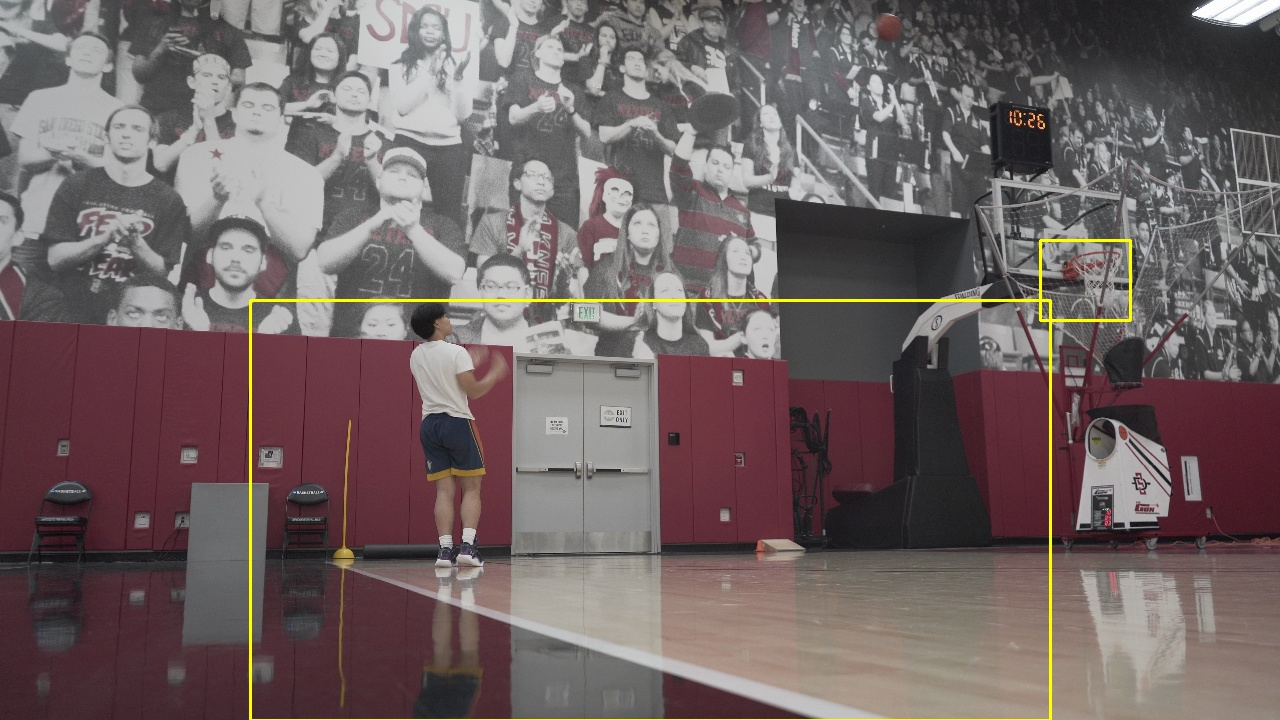
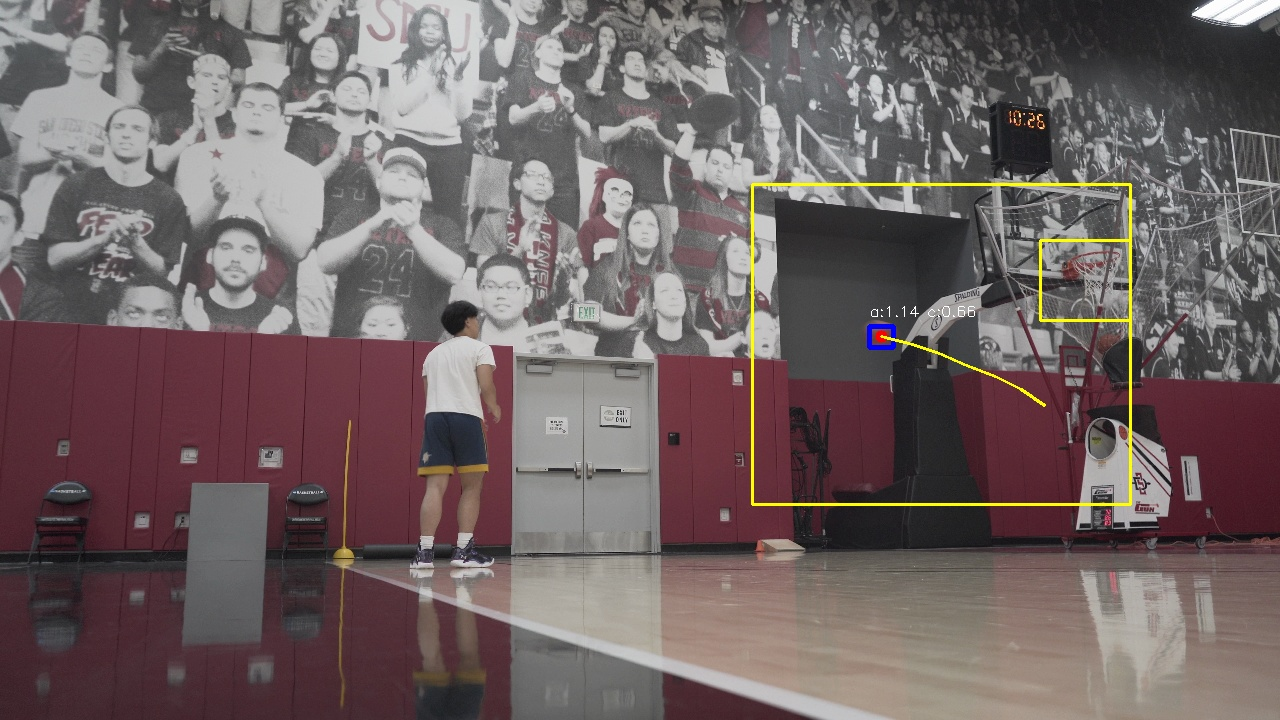
Added lines to require that candidates stay reasonable close to the hoop region and to the previous center. Dynamic ROI will still follow the ball, our hoop union kieeps the rim area searchable

diff --git a/src/main.py b/src/main.py
@@ -87,6 +87,9 @@ def playVideoFrameFile():
     # Cap the trail length to avoid long trail history cluttering the frame
     MAX_TRAIL_POINTS = 30
 
+    # Cap the Hoop distance
+    MAX_HOOP_DISTANCE = 140
+
     # hardcoded hoop region
     hoop_roi_x1 = 1040
     hoop_roi_y1 = 240
@@ -147,7 +150,8 @@ def playVideoFrameFile():
         roi_y2 = min(frame_height, roi_y2)
 
         # Draw the manual hoop on the debug frame
-        cv.rectangle(debug_frame, (hoop_roi_x1, hoop_roi_y1), (hoop_roi_x2, hoop_roi_y2), (0, 255, 255), 2)
+        cv.rectangle(debug_frame, (hoop_roi_x1, hoop_roi_y1),
+                     (hoop_roi_x2, hoop_roi_y2), (0, 255, 255), 2)
 
         # Draw the ROI rectangle on debug_frame
         cv.rectangle(debug_frame, (roi_x1, roi_y1), (roi_x2, roi_y2), (0, 255, 255), 2)
@@ -220,6 +224,10 @@ def playVideoFrameFile():
             center_x = full_x + w // 2
             center_y = full_y + h // 2
 
+            # Compute the hoop center
+            hoop_center_x = (hoop_roi_x1 + hoop_roi_x2) // 2
+            hoop_center_y = (hoop_roi_y1 + hoop_roi_y2) // 2
+
             # print circularity
             print(f"area={area:.1f}, circularity={circularity:.2f}",
                   f"w={w}, h={h}, aspect_ratio={aspect_ratio:.2f}")
@@ -244,6 +252,15 @@ def playVideoFrameFile():
                 distance = math.hypot(center_x - last_x, center_y - last_y)
 
                 if distance > MAX_JUMP_DISTANCE:
+                    continue
+
+                # reject candidates that are too far from the hoop zone
+                if last_x > 900:
+                    # calculate the distance to the hoop
+                    distance_to_hoop = math.hypot(
+                        center_x - hoop_center_x, center_y - hoop_center_y)
+
+                if distance_to_hoop > MAX_HOOP_DISTANCE:
                     continue
 
                 if best_score is None or distance < best_score:
